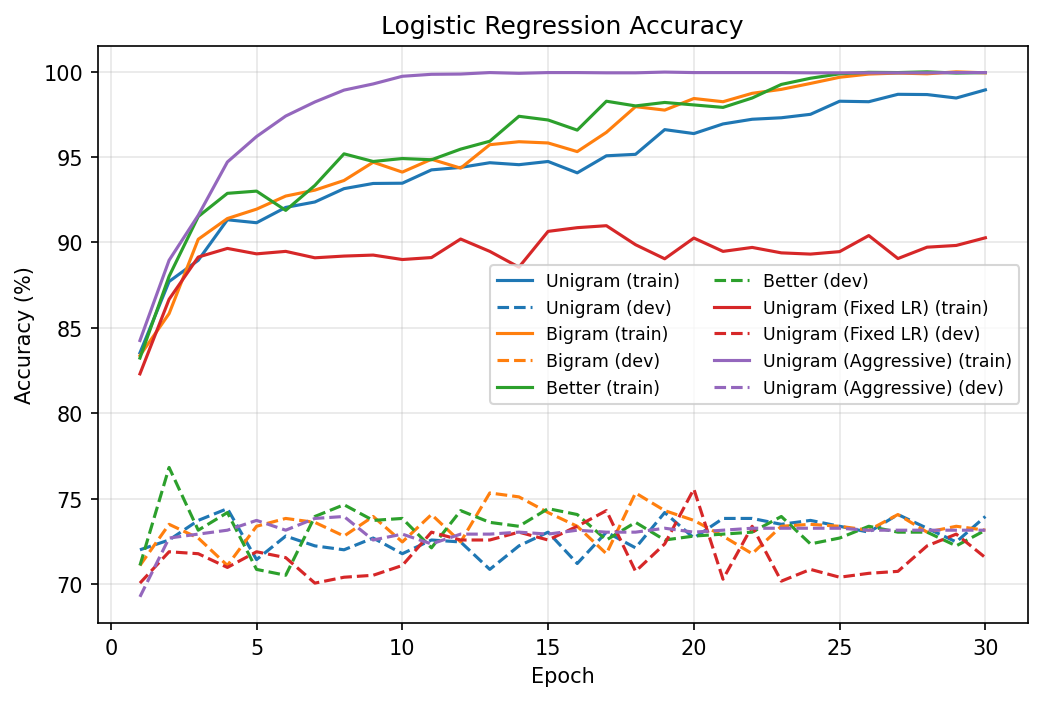
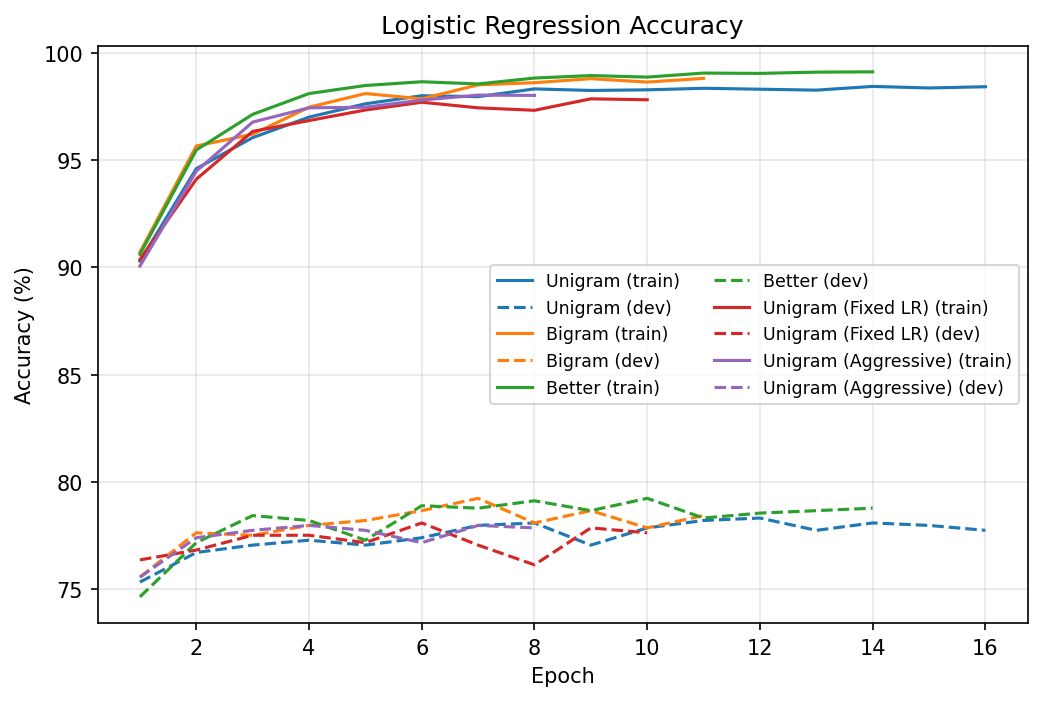
Add grid search script and update LR training with optimized plots
- Add models_gridsearch.py for hyperparameter tuning experiments
- Update models.py with improved training logic
- Update LR accuracy and loss plots with new results
- Add grid search results output

diff --git a/src/models_gridsearch.py b/src/models_gridsearch.py
@@ -256,14 +256,14 @@ def compute_lr_eval_metrics(model: LogisticRegressionClassifier, exs: List[Senti
 
 def train_logistic_regression(train_exs: List[SentimentExample], feat_extractor: FeatureExtractor,
                               dev_exs: List[SentimentExample] = None,
-                              lr_decay: float = 0.8,
+                              lr_decay: float = 0.95,
                               return_metrics: bool = False,
-                              initial_lr: float = 0.2,
+                              initial_lr: float = 0.5,
                               lambda_reg: float = 0.1,
                               min_count: int = 2,
-                              batch_size: int = 32,
+                              batch_size: int = 1,
                               num_epochs: int = 30,
-                              early_stopping_patience: int = 4) -> LogisticRegressionClassifier:
+                              early_stopping_patience: int = 0) -> LogisticRegressionClassifier:
     """
     Train a logistic regression model.
     :param train_exs: training set, List of SentimentExample objects
@@ -591,9 +591,9 @@ def train_linear_model(args, train_exs: List[SentimentExample], dev_exs: List[Se
 
         return better_model
     else:
-        # UNIGRAM or BIGRAM: use best hyperparameters (no grid search)
+        # UNIGRAM or BIGRAM: use original defaults, no grid search
         model, metrics = train_logistic_regression(train_exs, feat_extractor, dev_exs=dev_exs,
-                                                    return_metrics=True)
+                                                    lr_decay=0.95, return_metrics=True)
         return model
 
 
